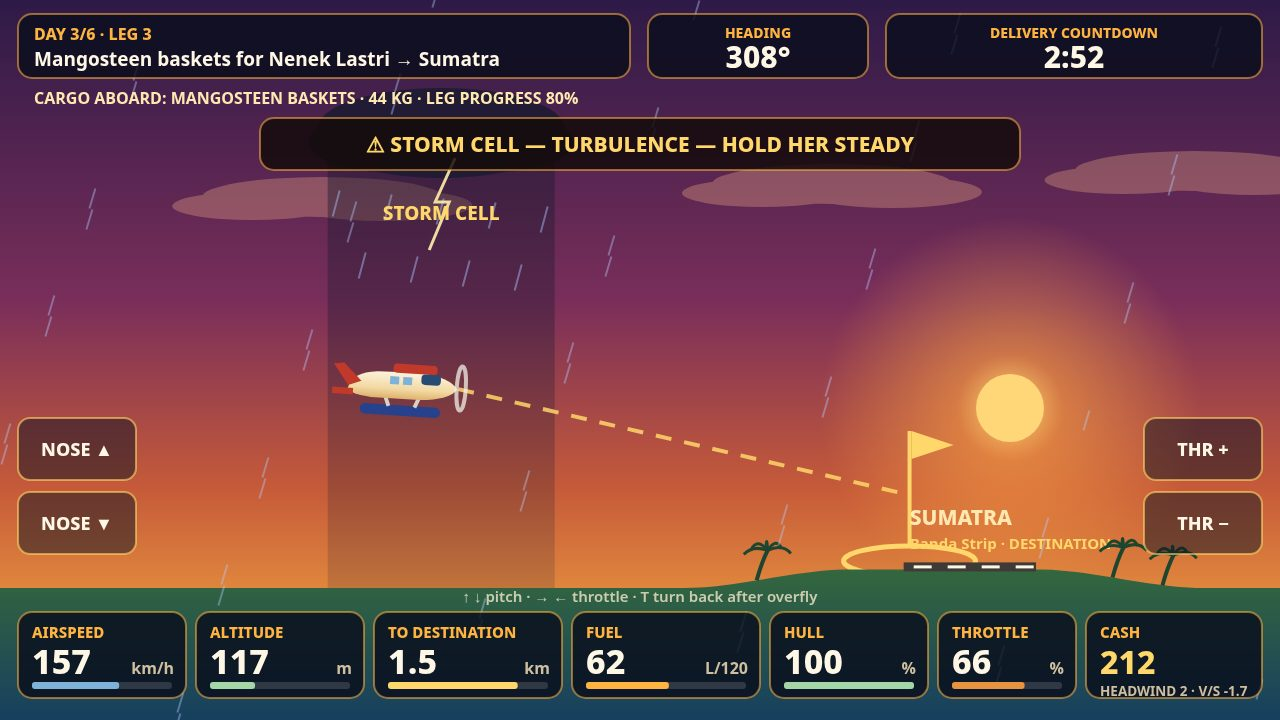
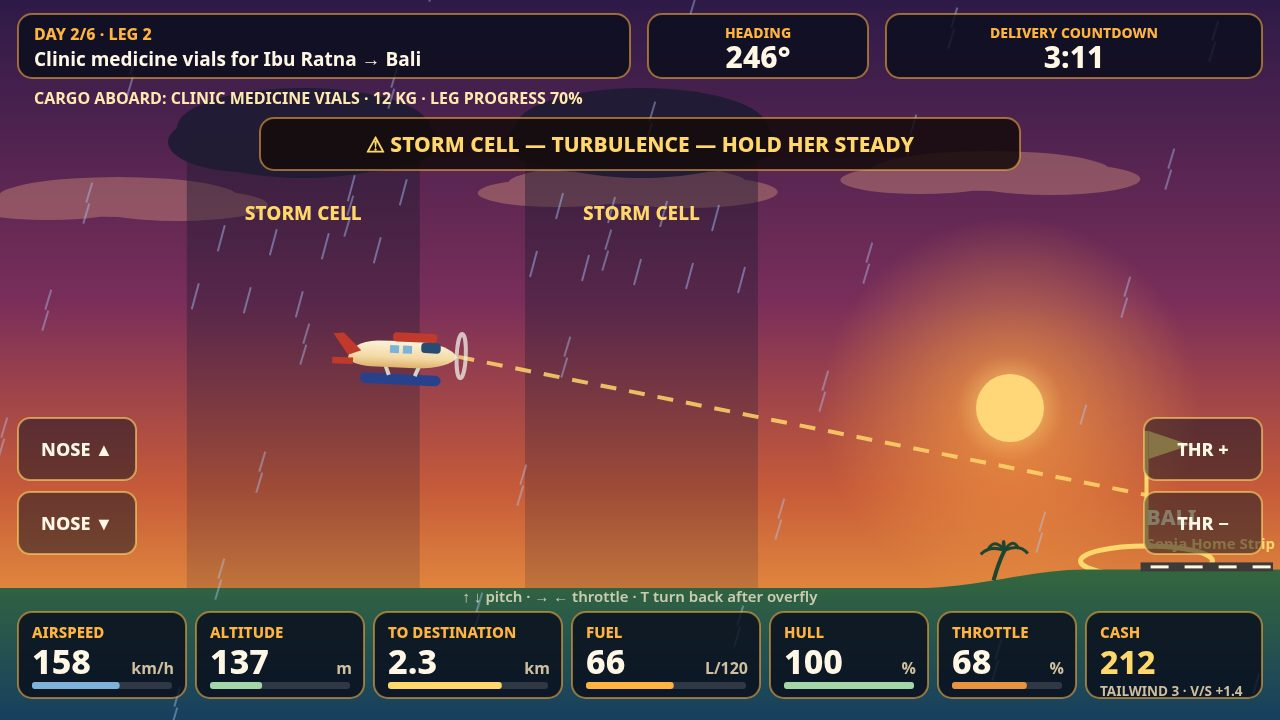
Screenshot set engineered for the judge: medicine-run cover between two storm cells, water-landing tow moment, challenges completeness frame, chart table

diff --git a/game/src/shots.js b/game/src/shots.js
@@ -1,7 +1,7 @@
 // shots.js — screenshot staging. The judge sees the game mostly through
 // its screenshots, so the four captures are staged by code, not luck:
 // each one builds a real, deterministic game state (same seeds as play)
-// and lets the normal renderer draw it. ?shot=cover|menu|map|delivered.
+// and lets the normal renderer draw it. ?shot=cover|water|shell|map.
 
 import { stepFlight } from './physics.js';
 import { storeSave } from './save.js';
@@ -32,6 +32,20 @@ function midWeek(G, api, island, day) {
   api.startDay();
 }
 
+// Hunts the deterministic week for a clinic-medicine ticket on a
+// two-storm day: the cover's story is an urgent medicine run.
+function findMedicineTicket(G, api) {
+  // the seeded week deals clinic medicine on day 2 (index 1) — the
+  // Papua → Bali run is the longest of them, so it is hunted first
+  const combos = [['papua', 1], ['sumatra', 1], ['kalimantan', 1], ['timor', 1], ['jawa', 1], ['flores', 1], ['lombok', 1], ['bali', 1], ['sulawesi', 1]];
+  for (const [island, day] of combos) {
+    midWeek(G, api, island, day);
+    const i = G.tickets.findIndex((t) => t.cargo.id === 'medicine');
+    if (i >= 0) return i;
+  }
+  return -1;
+}
+
 export function applyShot(G, api, name) {
   if (name === 'map') {
     midWeek(G, api, 'lombok', 2);
@@ -39,43 +53,78 @@ export function applyShot(G, api, name) {
     return;
   }
   if (name === 'cover') {
-    // THE cover: one mid-flight frame proving the whole game — plane at
-    // 74% of the leg with the destination island, ring and runway ahead,
-    // riding the edge of a storm cell (turbulence, rain, storm banner),
-    // the named customer's ticket and every gauge on screen.
-    midWeek(G, api, 'lombok', 2);
-    G.selected = pickLongestTicket(G);
+    // THE cover, staged as a story moment: an urgent clinic-medicine
+    // run at golden hour, the seaplane clipping the edge of one storm
+    // cell and threading toward the gap before the second, the route
+    // ribbon running on to the destination ring, countdown ticking.
+    const med = findMedicineTicket(G, api);
+    G.selected = med >= 0 ? med : pickLongestTicket(G);
     api.startFlight();
     const f = G.flight;
     f.onGround = false;
-    f.x = Math.round(G.world.legMetres * 0.8);
-    f.alt = 128;
+    f.x = Math.round(G.world.legMetres * 0.7);
+    f.alt = 148;
     f.speed = 47;
     f.pitch = 2;
-    f.throttle = 0.66;
-    f.fuel = f.spec.tank * 0.52;
-    f.time = G.plan.deadlineSeconds * 0.55;
-    const cell = G.weather.cells[0];
-    if (cell) {
-      cell.x = f.x + 200; // the cell's leading edge is on the plane's nose
-      cell.radius = 420;
+    f.throttle = 0.68;
+    f.fuel = f.spec.tank * 0.55;
+    f.time = G.plan.deadlineSeconds * 0.5;
+    const cells = G.weather.cells;
+    // day 2 brings one cell; the threading moment needs two, so a twin
+    // of the real cell stands in — the same cell the later days deal.
+    // Drift is zeroed on the staged cells so the geometry the code
+    // placed is the geometry the frame keeps.
+    while (cells.length < 2) cells.push({ ...cells[0] });
+    cells[0].x = f.x - 300; // the plane rides this cell's leading edge
+    cells[0].radius = 430;
+    cells[0].drift = 0;
+    cells[1].x = f.x + 850; // the second cell guards the far side
+    cells[1].radius = 430;
+    cells[1].drift = 0;
+    if (cells[2]) {
+      cells[2].x = f.x - 2400; // any further cell waits out of frame
+      cells[2].drift = 0;
     }
     settle(G, 0.6);
     return;
   }
-  if (name === 'menu') {
-    // the commercial shell: title menu over a mid-week career, with a
-    // saved week on the strip so CONTINUE reads as a live option
+  if (name === 'water') {
+    // The mechanic no generic flight entry shows: a dry tank ends in a
+    // water landing, not a game over — plane floating on the sea, tow
+    // boat summoned, cargo dry, the week still alive on the HUD.
+    midWeek(G, api, 'lombok', 2);
+    G.selected = pickLongestTicket(G);
+    api.startFlight();
+    const f = G.flight;
+    f.x = Math.round(G.world.legMetres * 0.78);
+    f.alt = 12;
+    f.speed = 1.5;
+    f.pitch = 0;
+    f.throttle = 0;
+    f.fuel = 3;
+    f.water = true;
+    f.outcome = 'water';
+    f.onGround = false;
+    f.time = Math.round(G.plan.deadlineSeconds * 0.8);
+    G.banner = { text: 'DOWN IN THE SEA — TOW BOAT ON ITS WAY · FEE 45 · CARGO DRY', until: performance.now() + 60000 };
+    return;
+  }
+  if (name === 'shell') {
+    // The completeness frame: the Challenges page of the commercial
+    // shell over a lived-in career — progress bars, DONE stamps, the
+    // career line and a saved week behind CONTINUE.
     api.newCampaign();
     Object.assign(G.stats, {
       legsFlown: 9, deliveries: 7, onTime: 5, smoothLandings: 3,
-      totalEarned: 640, bestDayEarned: 210, heaviestKg: 85, daysCompleted: 2,
+      waterLandings: 1, totalEarned: 640, bestDayEarned: 210,
+      heaviestKg: 85, stormDeliveries: 1, cleanDeliveries: 2,
+      daysCompleted: 2, deliveredAfterWater: 1,
     });
     storeSave({
       day: 2, islandId: 'lombok', credits: 212, fuel: 96,
       upgrades: { tank: 1, engine: 0, hold: 0 }, stats: { ...G.stats },
     });
-    G.screen = 'title';
+    G.screen = 'challenges';
     return;
   }
   if (name === 'delivered') {

diff --git a/game/src/menu.js b/game/src/menu.js
@@ -89,11 +89,11 @@ export function drawChallenges(ctx, stats) {
     const col = i % 2;
     const row = Math.floor(i / 2);
     const x = 130 + col * 520;
-    const y = 168 + row * 92;
+    const y = 164 + row * 88;
     const p = challengeProgress(stats, c);
     panel(ctx, x, y, 500, 80, p.done ? 'rgba(30,52,26,0.9)' : 'rgba(13,17,34,0.88)');
     text(ctx, c.name, x + 18, y + 30, 18, p.done ? '#a5d6a7' : '#fff7e6', 'left', 800);
-    fitText(ctx, c.desc, x + 18, y + 54, 340, 15, '#cdbf9f', 'left', 600);
+    fitText(ctx, c.desc, x + 18, y + 54, 312, 15, '#cdbf9f', 'left', 600);
     text(ctx, p.done ? '✓ DONE' : `${p.current}/${p.goal}`, x + 482, y + 32, 17, p.done ? '#a5d6a7' : '#ffd76a', 'right', 800);
     ctx.fillStyle = 'rgba(255,255,255,0.14)';
     rr(ctx, x + 330, y + 44, 150, 9, 4);
@@ -102,6 +102,9 @@ export function drawChallenges(ctx, stats) {
     rr(ctx, x + 330, y + 44, Math.max(6, 150 * (p.current / p.goal)), 9, 4);
     ctx.fill();
   });
+  // the career in one line, so this screen inventories the whole shell:
+  // stats, earnings and the saved week behind CONTINUE
+  text(ctx, `PILOT CAREER — ${stats.legsFlown} LEGS · ${stats.deliveries} DELIVERIES · ${stats.totalEarned} CREDITS EARNED · WEEK SAVED LOCALLY — CONTINUE RESUMES IT`, VIEW_W / 2, 620, 15.5, '#8fa8bf', 'center', 700);
 }
 
 export function drawStats(ctx, stats, G) {

diff --git a/game/src/main.js b/game/src/main.js
@@ -455,7 +455,7 @@ function fitCanvas() {
 window.addEventListener('resize', fitCanvas);
 fitCanvas();
 
-// Screenshot staging: ?shot=cover|menu|map|delivered renders one
+// Screenshot staging: ?shot=cover|water|shell|map renders one
 // deterministic frame of the named moment instead of starting the loop.
 const params = new URLSearchParams(window.location.search);
 if (params.get('shot')) {
